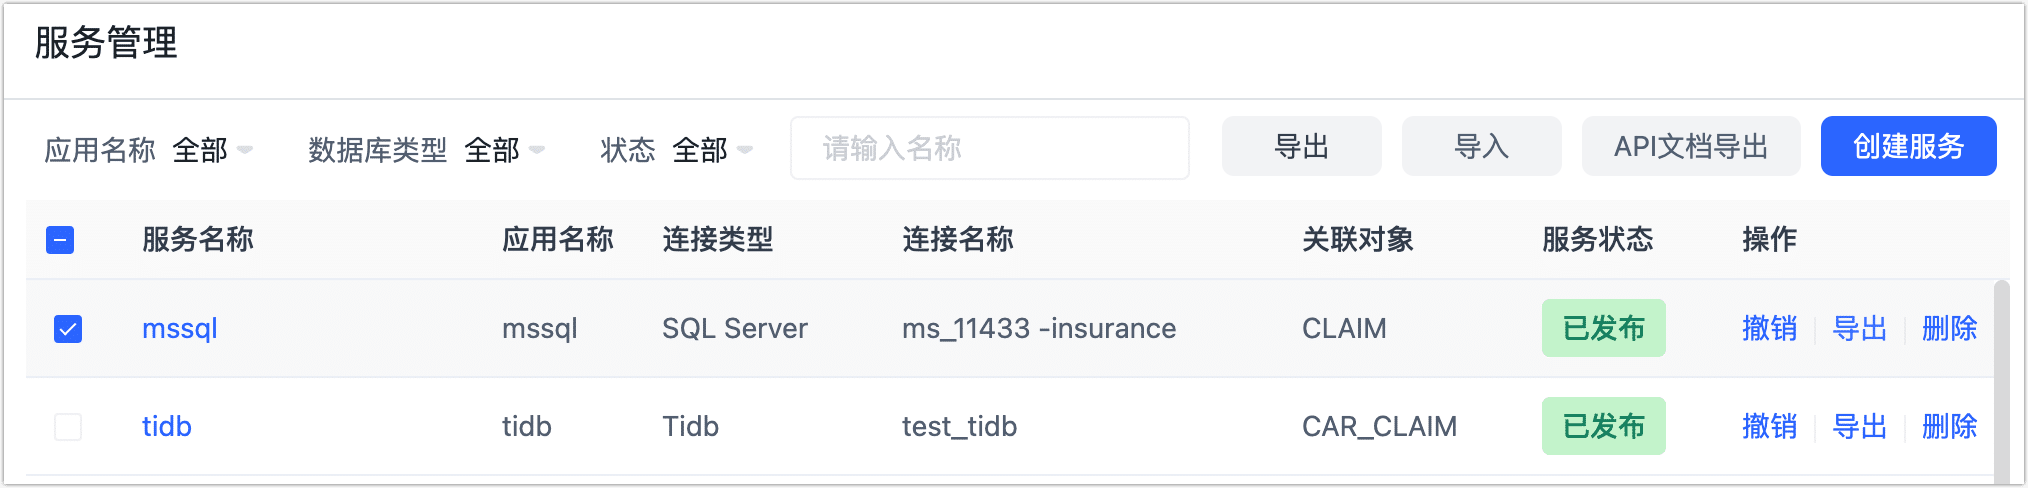
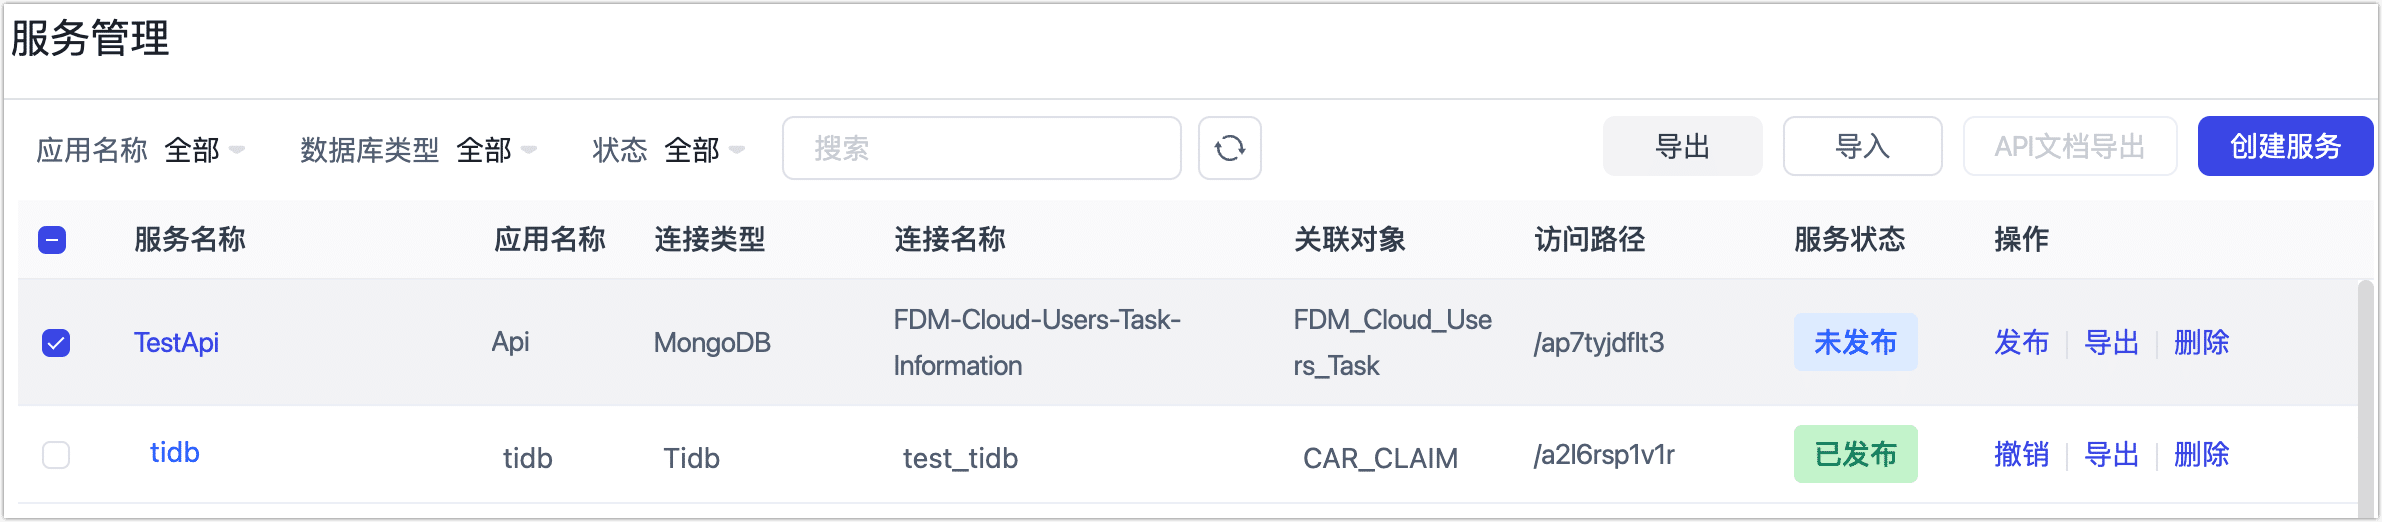
Release 3.11

diff --git a/docs/release-notes/release-notes-on-prem.md b/docs/release-notes/release-notes-on-prem.md
@@ -6,6 +6,27 @@ import Content from '../reuse-content/_enterprise-features.md';
 
 本文介绍 TapData Enterprise V3.x 的版本更新日志，早期版本请参见 [V2.x 版本更新日志](https://docs.tapdata.net/2.0/release-notes)。
 
+## 3.11
+
+### 新增功能
+
+- 在[服务管理列表页](../user-guide/data-service/create-api-service.md)新增表名和 API 地址展示功能，支持关键字快速检索和筛选
+- 在[数据转换任务配置](../user-guide/data-pipeline/data-development/create-task.md)阶段，源节点模型预览区域支持单表模型的重新加载，提高加载效率
+- 新增时间探测功能，自动探测引擎部署服务器和数据库服务器的时间差，并在任务监控页面展示
+
+### 功能优化
+
+* 用户定义的字段业务描述可直接展示在表样例数据的列名位置
+
+### 问题修复
+
+- 修复导入 API 后出现 "System error: null" 报错的问题
+- 修复 API 已删除但在血缘图中仍显示的问题
+- 修复实时数据平台某些表数据量统计为空的问题
+- 修复实时数据平台发布 API 时路径未显示 host 的问题
+- 修复 MongoDB 数据库 cursor 超时导致任务无法正常全量同步的问题
+- 修复源节点数据过滤设置中自定义 SQL 过滤开关无法打开的问题
+
 ## 3.10
 
 ### 新增功能

diff --git a/docs/release-notes/release-notes-cloud.md b/docs/release-notes/release-notes-cloud.md
@@ -17,6 +17,25 @@ import TabItem from '@theme/TabItem';
   <TabItem value="2024 年" default>
 ```
 
+### 2024-08-02
+
+#### 新增功能
+
+- 在[数据转换任务配置](../user-guide/data-pipeline/data-development/create-task.md)阶段，源节点模型预览区域支持单表模型的重新加载，提高加载效率
+- 上线云版流量统计和流量账单支付功能
+
+#### 功能优化
+
+* 用户定义的字段业务描述可直接展示在表样例数据的列名位置
+
+#### 问题修复
+
+- 修复实时数据平台某些表数据量统计为空的问题
+- 修复实时数据平台发布 API 时路径未显示 host 的问题
+- 修复 MongoDB 数据库 cursor 超时导致任务无法正常全量同步的问题
+- 修复源节点数据过滤设置中自定义 SQL 过滤开关无法打开的问题
+- 修复云版线上全托管 Agent 的邮件告警格式错误的问题
+
 ### 2024-07-20
 
 #### 新增功能

diff --git a/docs/release-notes/release-notes-community.md b/docs/release-notes/release-notes-community.md
@@ -6,6 +6,22 @@ import Content from '../reuse-content/_community-features.md';
 
 本文介绍 TapData Community 近期版本的更新日志，更多早期版本，请参见 [GitHub Release 页面](https://github.com/tapdata/tapdata/releases)。
 
+## 3.11
+
+### 新增功能
+
+- 在[数据转换任务配置](../user-guide/data-pipeline/data-development/create-task.md)阶段，源节点模型预览区域支持单表模型的重新加载，提高加载效率
+- 新增时间探测功能，自动探测引擎部署服务器和数据库服务器的时间差，并在任务监控页面展示
+
+### 功能优化
+
+* 用户定义的字段业务描述可直接展示在表样例数据的列名位置
+
+### 问题修复
+
+- 修复 MongoDB 数据库 cursor 超时导致任务无法正常全量同步的问题
+- 修复源节点数据过滤设置中自定义 SQL 过滤开关无法打开的问题
+
 ## 3.10
 
 ### 新增功能
